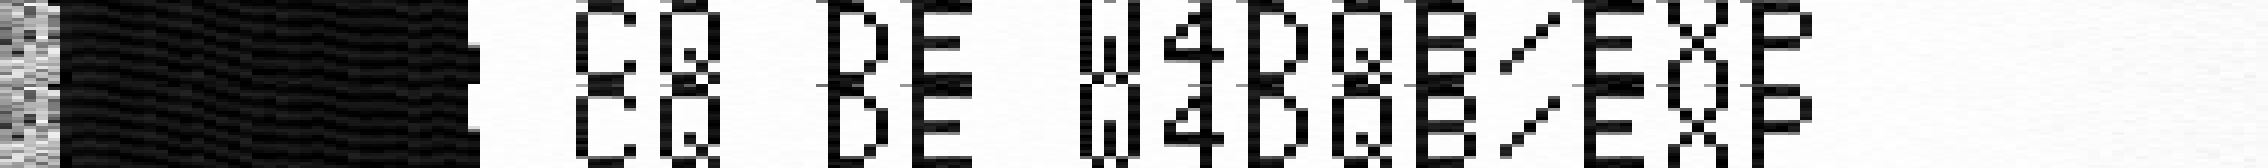
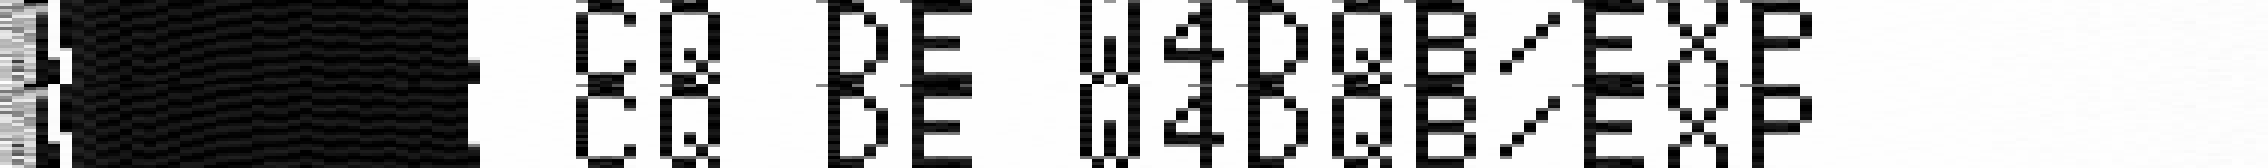
Keep the stations at 2394.250 MHz; only the beacon uses 2304.350
Band plan: experimental transmissions between the stations stay at
2394.250 MHz (the stations' default dial again, and mode_check's); the
beacon sends on 2304.350 MHz. The 2300 MHz transmit floor, the wider
band checks and the AFC space-shift fix stay, so a station can tune to
2304.350 to hear the beacon (beacon_check listens there).

Re-tested at 2394.250 with the rebuilt station image: Olivia 8/250 and
16/500 OK both ways, Hell clean both ways, CW clean both ways on the
repeat (one CG for CQ before).

diff --git a/espdr_trx_tk.py b/espdr_trx_tk.py
@@ -83,7 +83,7 @@ def main():
     p.add_argument("--port", help="the board's native USB port; omit to choose in the window")
     p.add_argument("--image", default=resource("release/esp32-sdr-trx-trx-decim16.bin"),
                    help="transceiver firmware (TX image, decimation 16)")
-    p.add_argument("--dial", type=float, default=2304.350, help="start frequency in MHz (default 2304.350)")
+    p.add_argument("--dial", type=float, default=2394.250, help="start frequency in MHz (default 2394.250)")
     p.add_argument("--rx-gain", type=int, default=0, help="receiver gain selector (default 0: the boards are close)")
     p.add_argument("--rx-ppm", type=float, default=0.0)
     p.add_argument("--tx-ppm", type=float, default=0.0)

diff --git a/espdr_cw_tk.py b/espdr_cw_tk.py
@@ -451,7 +451,7 @@ class Window:
 
 def main():
     p = argparse.ArgumentParser(description=__doc__, formatter_class=argparse.RawDescriptionHelpFormatter)
-    p.add_argument("--dial", type=float, default=2304.350, help="start frequency in MHz (default 2304.350)")
+    p.add_argument("--dial", type=float, default=2394.250, help="start frequency in MHz (default 2394.250)")
     p.add_argument("--rx-port", default="COM4", help="receiver board's native USB port (default COM4)")
     p.add_argument("--tx-port", default="COM5", help="transmitter board's native USB port (default COM5; '' for receive only)")
     p.add_argument("--decim", type=int, choices=sorted(br.DECIM_RATES), default=16, help="receiver decimation (default 16)")

diff --git a/espdr_fldigi.py b/espdr_fldigi.py
@@ -31,7 +31,8 @@ import numpy as np
 from espdr import board, cli_tx, dsp, nb, txlink, txmodes
 
 # This project's firmware images transmit from 2300 MHz (protocol/transmit.h: TX_MIN_HZ), below upstream's 2320, for the US
-# 13 cm segment 2300-2310 MHz (the beacon sits at 2304.350). espdr's own check follows the firmware.
+# 13 cm segment 2300-2310 MHz: the beacon sits at 2304.350, and a station can tune there to hear it (experimental
+# transmissions stay at 2394.250). espdr's own check follows the firmware.
 txlink.TX_MIN_HZ = 2_300_000_000
 
 RTL_RATE = 250_000         # espdr-rx passes exactly this rate through unchanged; 62_500 with --decim 16 (set in main)

diff --git a/scripts/mode_check.py b/scripts/mode_check.py
@@ -17,7 +17,7 @@ port_a = sys.argv[1] if len(sys.argv) > 1 else "COM4"
 port_b = sys.argv[2] if len(sys.argv) > 2 else "COM5"
 modes = sys.argv[3:] or ["cw", "hell", "olivia-8/250", "olivia-16/500"]
 TEXT = "CQ DE W4DQB/EXP"
-DIAL = float(__import__("os").environ.get("DIAL_MHZ", "2304.350"))   # DIAL_MHZ=2394.250 to test another frequency
+DIAL = float(__import__("os").environ.get("DIAL_MHZ", "2394.250"))   # DIAL_MHZ=2304.350 to test another frequency
 
 
 def station(port):

diff --git a/README.md b/README.md
@@ -12,7 +12,7 @@
 One board transmits, the other receives, and a small Windows program decodes, sends and lets you listen.
 
 This is experimental, proof-of-concept work: one pair of boards on one Windows 11 PC, tested in the 13 cm amateur band
-(default 2304.350 MHz; earlier tests used 2394.250 MHz).
+(the stations default to 2394.250 MHz; the beacon sends on 2304.350 MHz).
 
 ## Objective
 
@@ -34,8 +34,10 @@ in Morse, have the other board receive it, decode it on screen and play it throu
 - **Standalone beacon firmware** (`beacon/`): a board beacons by itself from flash at power-up, with no PC, in CW (red LED),
   Olivia 16/500 (green) or both in turn (purple); the BOOT button switches modes. The CW and the Olivia ID each decoded three times in a row
   on another board (see beacon/README.md).
-- **2304.350 MHz:** the default frequency, in the US 13 cm segment 2300–2310 MHz. This project's firmware transmits from 2300 MHz
-  (upstream stops at 2320); all modes and the beacon decoded there.
+- **Band plan:** experimental transmissions between the stations stay at **2394.250 MHz** (the stations' default); the
+  **beacon** sends on **2304.350 MHz**, in the US 13 cm segment 2300–2310 MHz. This project's firmware transmits from 2300 MHz
+  (upstream stops at 2320), so a station can also be tuned to 2304.350 to hear the beacon. All modes and the beacon decoded at
+  2304.350.
 - **AFC for long carriers:** the receiver now follows a steady carrier in the plain spectrum (only a comparable or stronger signal
   takes it over, not a CW space) and searches +-16 kHz, so a beacon
   that has warmed up (drifting only ~1 Hz/s) and boards whose crystals differ by ~12 kHz still decode.

diff --git a/SETUP-CHECKLIST.md b/SETUP-CHECKLIST.md
@@ -423,3 +423,8 @@ espdr-tx --native --port COM5 --accept-licence -f 2350 -m fm --test-tone 1000 --
   from its carrier. Then CW 6 of 6 clean both ways
 - [x] Station modes at 2304.350: Olivia 8/250 and 16/500 OK both ways (one 16/500 run short, the next two clean), Hell clean both ways
 - [x] Beacon at 2304.350: CW from flash `DE W4DQB/EXP [carrier]` x3; Olivia from RAM x3 clean
+- [x] Band plan (owner's decision): the stations' default dial is back at **2394.250** for experimental transmissions; only the
+  beacon uses **2304.350**. The 2300 MHz floor, the wider band checks and the AFC fix stay, so a station can tune to 2304.350 to hear
+  the beacon (`scripts/beacon_check.py` listens there; `scripts/mode_check.py` tests at 2394.250, `DIAL_MHZ=` for others)
+- [x] Station test back at 2394.250 (A COM4 / B COM5, rebuilt image): Olivia 8/250 and 16/500 OK both ways, Hell clean both ways,
+  CW B->A clean; A->B `CG DE ...` once (the known first-letter slip), then clean both ways on the repeat
